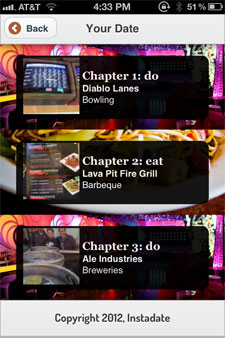
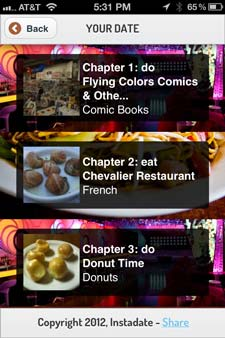
Update desktop images and app images

diff --git a/javascripts/story.js b/javascripts/story.js
@@ -56,13 +56,15 @@ initialize_story = function(options) {
 
 		map_url = "http://maps.google.com/maps?q=" + curr_chap_data.latitude + "," + curr_chap_data.longitude
 
-		img_html = "<img src=\"" + curr_chap_data.image_url + "\" alt=\"pic\"></img>";
-		Story.chapter_html[chap] = "<div id=\"" + Story.chapter_ids[chap] + "\" class=\"activity activity-" + curr_chap_data.category + "-evening\"><div class=\"chapter ui-corner-all\" ><table><tr><td><span id=\"" + curr_id + "_img\">" + img_html + "</span></td><td columnwidth=\"2\"><span id=\"" + curr_id + "\"><div class=\"meta\" ><div class=\"chapter-header\"><strong>Chapter " + (chap+1) + ": " + curr_chap_data.category + "</strong></div><div class=\"chapter-details\"><strong>" + business_name + "</strong><br/>" + source_category + "</div></div></span></td></tr></table></div></div>";
+		img_html = "<img id=\"business_image_url\" src=\"" + curr_chap_data.image_url + "\" alt=\"pic\"></img>";
+		
+		Story.chapter_html[chap] = "<div id=\"" + Story.chapter_ids[chap] + "\" class=\"activity activity-" + curr_chap_data.category + "-evening\"><div class=\"chapter ui-corner-all\" ><table class=\"chapter_div\"><tr><td><span id=\"" + curr_id + "_img\">" + img_html + "</span></td><td columnwidth=\"2\"><span id=\"" + curr_id + "\"><div class=\"chapter_text_div\" ><div class=\"chapter-header\"><strong>Chapter " + (chap+1) + ": " + curr_chap_data.category + "</strong></div><div class=\"chapter-details\"><strong>" + business_name + "</strong><br/>" + source_category + "</div></div></span></td>";
+		Story.chapter_html[chap] += "<td><div class=\"chapter_arrow\" id=\"" + curr_id +"\"></div></td></tr></table></div></div>";
 		Story.chapter_details_html[chap] =   "<div id=\"" + curr_id + "_details\" style=\"display:none;margin: 10px 10px 10px 10px\">	<!-- Map -->    <div class=\"map_container\" style=\"margin-bottom: 10px;\">        <div class=\"the_map\" id=\"themap" + (chap+1) + "\"></div>    </div><!--END OF: Map -->	<!-- Address and Phone -->";
 		Story.chapter_details_html[chap] += "<ul data-role=\"listview\" data-theme=\"a\" data-mini=\"true\" data-inset=\"true\">";
 		Story.chapter_details_html[chap] += "<li><img src=\"images/pin.png\" alt=\"Location\" class=\"ui-li-icon\"><span id=\"" + curr_id + "_addr\"><a class=\"addr_link\" href=\"" + map_url + "\" target=\"_blank\">" + display_address + "</a></span></li>";
 		Story.chapter_details_html[chap] += "<li><img src=\"images/phone.png\" alt=\"Phone\" class=\"ui-li-icon\"><span id=\"" + curr_id + "_phone\"><a class=\"phone_link\" href=\"tel:" +click_phone+ "\">" + display_phone + "</a></span></li>";
-		Story.chapter_details_html[chap] += "<li><img src=\"images/info.png\" alt=\"Yelp\" class=\"ui-li-icon\"><span id=\"" + curr_id + "_api\"><a class=\"api_link\" href=\"" +curr_chap_data.business_url+ "\" target=\"_blank\">More details</a></span><div style=\"margin:0 0 0 10px;display:inline-block;\"><a href=\"" +curr_chap_data.business_url+ "\" target=\"_blank\"><img src=\"images/yelp_logo_30.png\" style=\"margin:-6px 0 -10px 0px;\" /></a></div></li>";
+		Story.chapter_details_html[chap] += "<li><img src=\"images/info.png\" alt=\"Yelp\" class=\"ui-li-icon\"><span id=\"" + curr_id + "_api\"><a class=\"api_link\" href=\"" +curr_chap_data.business_url+ "\" target=\"_blank\">More details</a></span><div style=\"margin:0 0 0 10px;display:inline-block;\"><a href=\"" +curr_chap_data.business_url+ "\" target=\"_blank\"><img id=\"yelp_image\" src=\"images/yelp_logo_100x50-2x.png\" style=\"margin:-6px 0 -8px 0px;\" /></a></div></li>";
 		Story.chapter_details_html[chap] += "</ul>  <!-- END OF: Address and Phone --></div>";
 		$('#story_list').append(Story.chapter_html[chap]);
 		$('#story_list').append(Story.chapter_details_html[chap]);

diff --git a/stylesheets/story.css b/stylesheets/story.css
@@ -40,9 +40,9 @@
 }
 
 .activity {
-  height: 93px;
+  height: 100px;
   margin: 0px 0px 0px 0px;
-  padding: 16px 23px 15px 23px;
+  padding: 12px 23px 12px 23px;
 }
 
 .activity-see-evening {
@@ -122,18 +122,38 @@
   }
 }
 
+@media only screen and (-webkit-min-device-pixel-ratio: 2) {
+	#yelp_image {
+		width:50px;
+		height:25px;
+	}
+	
+	#business_image_url {
+		width:70px;
+		height:70px;
+	}
+}
+
+#yelp_image {
+	width:50px;
+	height:25px;
+}
+#business_image_url {
+	width:70px;
+	height:70px;
+}
 
 .chapter {
-  height: 90px;
-  padding: 0px 6px 0px 7px;
+  height: 100px;
+  padding: 10px 6px 0px 2px;
   /*background:black;*/
   color: white;
   opacity:1.0;
   filter:alpha(opacity=100);
-  table {
+/*  table {
     filter:alpha(opacity=100);
     height: 100%;
-  }
+  }*/
   span img {
     /*opacity:1.0; This doesn't work */
     filter:alpha(opacity=100);
@@ -153,6 +173,20 @@
     font-size: 13px;
   }
 }
+
+.chapter_div {
+	width:290px;
+}
+
+.chapter_text_div {
+	width:180px;
+}
+
+.chapter_arrow{
+	background-image:url(../images/right-arrow.png);
+  /*background-size: 320px 124px;*/
+}
+
 
 .story_list {
   margin: 0px 0px 0px 0px;
@@ -206,3 +240,4 @@ div.loading-visible {
 .chapter_details_li {
   min-height: 0px; /* THIS DOESN"T WORK, JQUERY takes precedence... unsure how to fix. */
 }
+

diff --git a/stylesheets/desktop/style.css b/stylesheets/desktop/style.css
@@ -230,7 +230,7 @@ h1.logo{
 	width: 520px;
 	float: left;
 	margin-right: 40px;
-	padding-bottom: 20px;
+	padding-bottom: 40px;
 	line-height:20px;
 }
 
@@ -335,6 +335,16 @@ h1.logo{
     line-height:0;
     text-indent:-9999px;
     width:50px;
+}
+
+#social-icons h2{
+	color: #2D3D3A;
+	font-size: 18px;
+	padding: 0 60px 0 0px;
+	margin: 0 0 -34px 0;
+	height:26px;
+	line-height: 0px;
+	overflow:show;
 }
 
 #social-icons{
